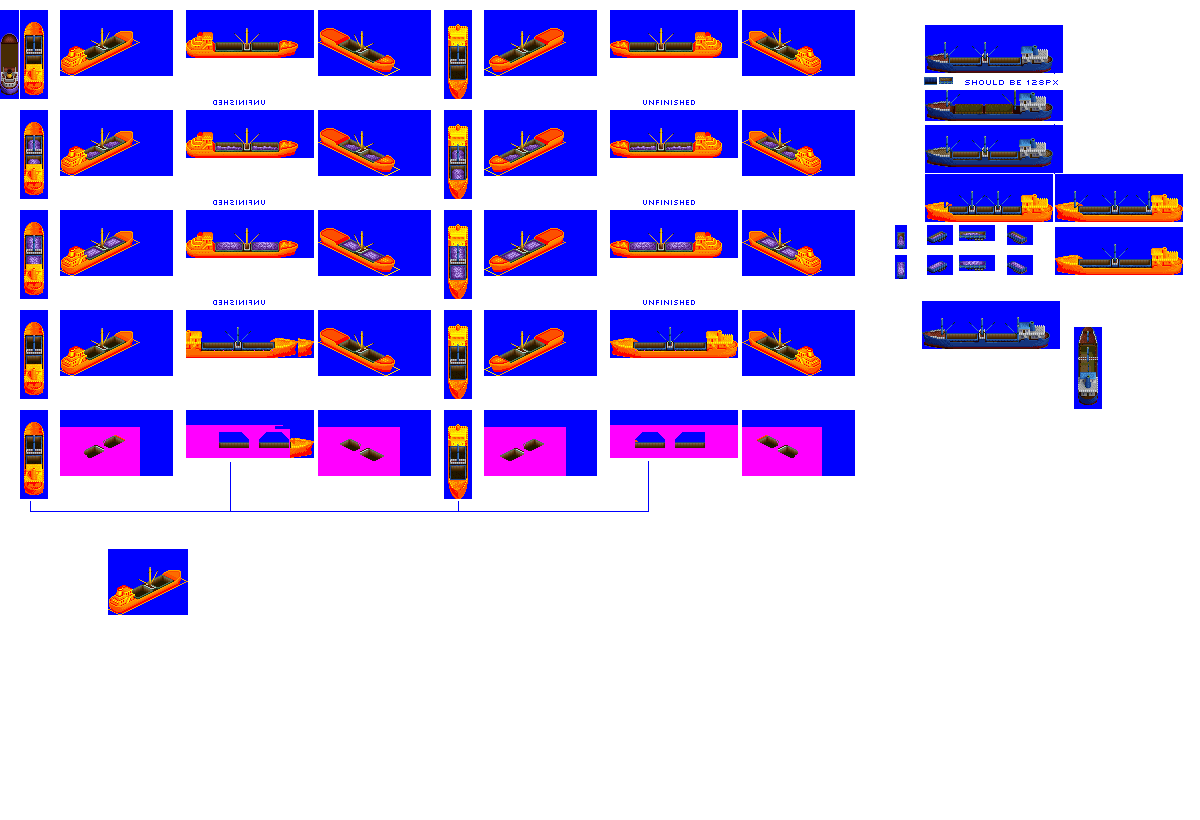
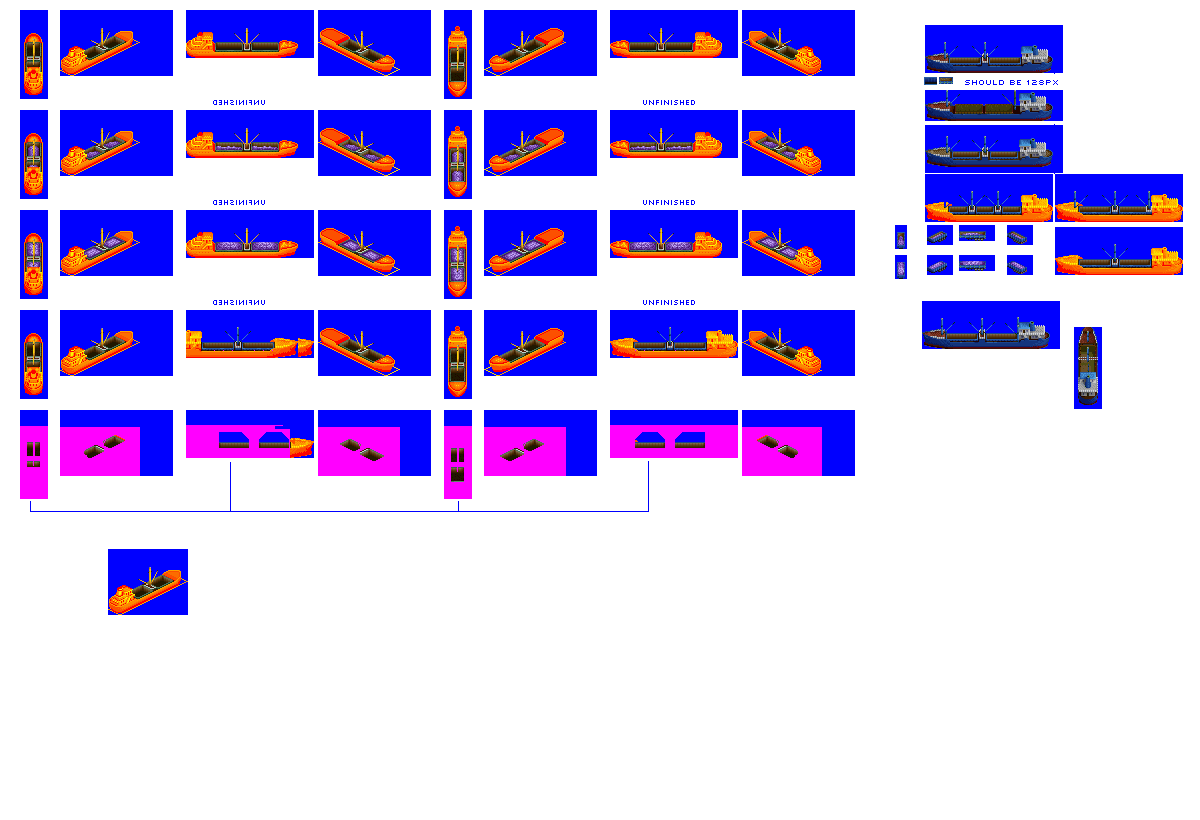
Change: more WIP on Shackleton freighter / 112px hull

diff --git a/src/hulls.py b/src/hulls.py
@@ -161,7 +161,7 @@ class TempHouseNone112px(Hull):
         self.hull_type = 'temp'
         self.house_position = 'none'
         self.load_state_y_offsets = [('empty', -1), ('part_load', 0), ('full_load', 1)]
-        self.effects_positions = [(6, 0, 12)]
+        self.effects_positions = [(11, 0, 12)]
 
 
 class TempHouseNone128px(Hull):
